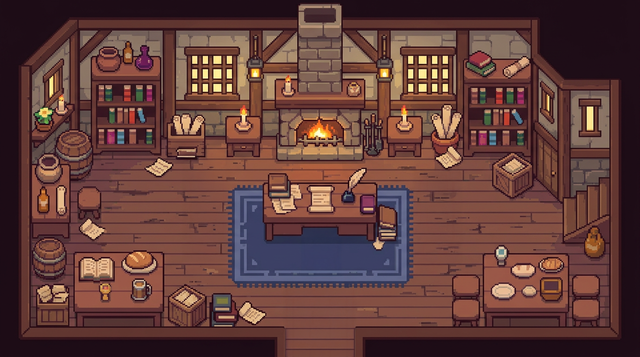
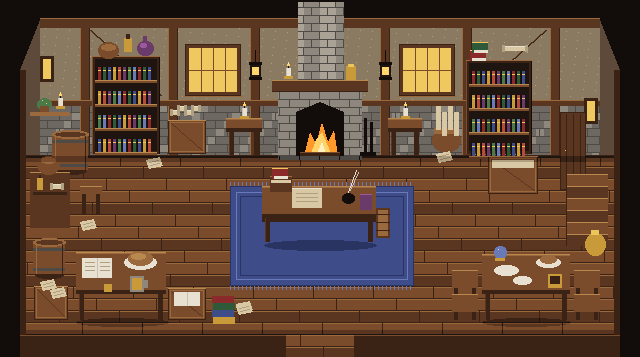
Maison du sage repeinte en pixel art (v8.15.1)
Même disposition que l'ancienne image : la grille de collision, les
lumières et les zones de lecture ne changent pas. Les dessus des deux
tables du bas sont recoupés dans la nouvelle image.

Claude-Session: https://claude.ai/code/session_01KgRZeWCvSQVkTEWoxAiCQs

diff --git a/tools/donjon-peint/sage.px.js b/tools/donjon-peint/sage.px.js
@@ -1,0 +1,128 @@
+// Escape Night 2 — maison du sage (bibliothèque), repeinte en pixel art.
+// Même disposition que l'ancienne image : 640 × 358 (2 px par pixel de jeu), grille de collision `biblio` (maps.js) inchangée.
+pal({
+  k: "#120c0a", K: "#1e1410",
+  B: "#3a2214", b: "#5a3620", n: "#7a4c2c", N: "#9a6a3e", L: "#b8884e",          // bois (sombre → clair)
+  q: "#5e4a3a", Q: "#7e6a54",                                                       // ombre du plancher
+  s: "#4e4a46", S: "#6e6862", t: "#8e877e", T: "#aaa294",                         // pierre
+  p: "#8a7a62", P: "#b0a080", c: "#d8c8a4",                                         // plâtre, parchemin
+  u: "#2a3462", U: "#3e4c8a", v: "#6a7ab8",                                         // tapis bleu
+  r: "#8a2a2a", R: "#b84a3a", g: "#2e5a3a", G: "#4a7a4a", y: "#c89a3a", Y: "#ecc65a", // reliures, or
+  o: "#ff9a2a", O: "#ffd46a", w: "#fff2c0",                                         // feu, lumière
+  m: "#6a3a6a", M: "#9a5a9a", e: "#c8c0b0", E: "#e8e0d0",                           // flacons, porcelaine
+  W: "#f0c860",                                                                     // fenêtres éclairées
+})
+ramps("kKBbnNL", "kqQ", "kstT", "kpPc", "kuUv", "krR", "kgG", "kyY", "koOw", "kmM", "keE")
+const H = (x, y, w, k) => [hline(x, y, w, k)]
+// ---------- pièces ----------
+function plank(c, x0, y0, x1, y1) {                       // plancher : lames horizontales, joints décalés, nœuds
+  for (let y = y0; y < y1; y++) for (let x = x0; x < x1; x++) {
+    const row = Math.floor((y - y0) / 12), off = (row * 37) % 60, seam = (x + off) % 60
+    let k = row % 3 === 0 ? "n" : row % 3 === 1 ? "b" : "n"
+    if ((y - y0) % 12 === 0) k = "N"; if ((y - y0) % 12 === 11 || seam === 0) k = "B"
+    c.px(x, y, k)
+  }
+}
+function shelf(c, x, y, w, h) {                           // bibliothèque pleine de livres
+  c.rect(x, y, w, h, "B"); c.rect(x + 3, y + 3, w - 6, h - 6, "K"); c.vline(x, y, h, "n"); c.vline(x + w - 1, y, h, "k"); c.hline(x, y, w, "N")
+  const cols = "rgUyRmGv"
+  for (let sy = y + 6; sy < y + h - 12; sy += 24) {
+    c.rect(x + 3, sy + 18, w - 6, 3, "n"); c.hline(x + 3, sy + 18, w - 6, "L")
+    let bx = x + 5; let i = (sy + x) % 7
+    while (bx < x + w - 8) { const bw = 4 + (i * 3) % 3, bh = 13 + (i * 5) % 5, k = cols[i % cols.length]; c.rect(bx, sy + 18 - bh, bw, bh, k); c.vline(bx, sy + 18 - bh, bh, "k"); c.hline(bx + 1, sy + 18 - bh + 3, bw - 1, "Y"); bx += bw + 1; i++ }
+  }
+}
+function table(c, x, y, w, h, top = 16) { c.rect(x, y, w, top, "n"); c.hline(x, y, w, "L"); c.hline(x, y + 1, w, "N"); c.rect(x, y + top, w, 4, "B"); c.rect(x + 3, y + top + 4, 5, h - top - 4, "B"); c.rect(x + w - 8, y + top + 4, 5, h - top - 4, "B"); c.vline(x + 3, y + top + 4, h - top - 4, "b") }
+function candle(c, x, y) { c.rect(x - 4, y + 8, 9, 3, "y"); c.rect(x - 2, y, 5, 8, "E"); c.vline(x - 2, y, 8, "e"); c.vline(x, y - 2, 2, "k"); c.px(x, y - 5, "w"); c.rect(x - 1, y - 4, 3, 2, "O"); c.px(x, y - 6, "O") }
+function barrel(c, x, y, w, h) { c.ellipse(x + w / 2, y + h - 3, w / 2 - 2, 3, "B"); c.rect(x, y + 4, w, h - 8, "n"); c.ellipse(x + w / 2, y + 4, w / 2, 4, "N"); c.ellipse(x + w / 2, y + 4, w / 2 - 3, 2, "b"); for (const yy of [y + 10, y + h - 10]) c.rect(x, yy, w, 3, "s"); c.vline(x + 3, y + 6, h - 10, "N"); c.vline(x + w - 3, y + 6, h - 10, "B") }
+function crate(c, x, y, w, h) { c.rect(x, y, w, h, "n"); c.box(x, y, w, h, "B"); c.box(x + 2, y + 2, w - 4, h - 4, "N"); c.line(x + 3, y + 3, x + w - 4, y + h - 4, "b"); c.hline(x, y, w, "L") }
+function scroll(c, x, y, len, dir = 1) { c.rect(x, y, len, 5, "c"); c.hline(x, y, len, "E"); c.rect(x - 2, y - 1, 3, 7, "P"); c.rect(x + len - 1, y - 1, 3, 7, "P") }
+function paper(c, x, y) { c.poly([x, y, x + 14, y - 3, x + 17, y + 6, x + 3, y + 9], "c"); c.line(x + 3, y + 2, x + 12, y, "P"); c.line(x + 4, y + 5, x + 13, y + 3, "P") }
+function book(c, x, y, k) { c.rect(x, y, 16, 11, k); c.hline(x, y, 16, "Y"); c.rect(x + 2, y + 8, 14, 3, "E") }
+function windowW(c, x, y, w, h) { c.rect(x - 4, y - 4, w + 8, h + 8, "b"); c.box(x - 4, y - 4, w + 8, h + 8, "B"); c.rect(x, y, w, h, "W"); for (let i = 1; i < 4; i++) c.vline(x + (w * i / 4 | 0), y, h, "n"); c.hline(x, y + (h / 2 | 0), w, "n"); c.hline(x - 6, y + h + 4, w + 12, "N") }
+function lantern(c, x, y) { c.vline(x, y - 12, 12, "k"); c.rect(x - 6, y, 13, 3, "k"); c.rect(x - 5, y + 3, 11, 12, "K"); c.rect(x - 3, y + 5, 7, 8, "O"); c.px(x, y + 8, "w"); c.rect(x - 6, y + 15, 13, 3, "k") }
+
+scene("biblio", { w: 640, h: 358, bg: "k" },
+  layer("pièce", c => {
+    // mur du fond : soubassement de pierre, plâtre entre les colombages
+    c.rect(40, 20, 560, 135, "p")
+    for (let y = 105; y < 155; y++) for (let x = 40; x < 600; x++) { const row = (y - 105) >> 3, sx = (x + (row % 2) * 12) % 24; c.px(x, y, (y - 105) % 8 === 7 || sx === 23 ? "s" : ((x >> 3) + row) % 5 ? "S" : "t") }
+    for (let y = 26; y < 105; y++) for (let x = 40; x < 600; x++) if (((x * 7 + y * 13) % 97) === 0) c.px(x, y, "P")
+    for (const x of [80, 168, 250, 380, 462, 550]) { c.rect(x, 20, 10, 135, "b"); c.vline(x, 20, 135, "N"); c.vline(x + 9, 20, 135, "B") }   // poteaux
+    c.rect(40, 18, 560, 10, "b"); c.hline(40, 18, 560, "N"); c.rect(40, 100, 560, 6, "b"); c.hline(40, 100, 560, "N")                    // sablières
+    c.line(90, 30, 160, 95, "b"); c.line(91, 30, 161, 95, "B"); c.line(472, 95, 545, 30, "b"); c.line(473, 95, 546, 30, "B")             // écharpes
+    // murs latéraux en biais
+    c.poly([20, 70, 40, 20, 40, 155, 20, 175], "q"); c.poly([600, 20, 620, 70, 620, 175, 600, 155], "q")
+    c.rect(20, 70, 6, 270, "B"); c.rect(614, 70, 6, 270, "B")
+    // plancher
+    plank(c, 26, 155, 614, 335)
+    c.rect(26, 155, 588, 3, "B")
+    // bord avant de la pièce (mur bas), sortie au milieu
+    c.rect(20, 335, 266, 23, "B"); c.hline(20, 335, 266, "n"); c.rect(354, 335, 266, 23, "B"); c.hline(354, 335, 266, "n")
+    plank(c, 286, 335, 354, 358)
+  }),
+  layer("fond", c => {
+    // cheminée de pierre et âtre
+    for (let y = 2; y < 92; y++) for (let x = 298; x < 344; x++) { const row = y >> 3, sx = (x + (row % 2) * 8) % 16; c.px(x, y, y % 8 === 7 || sx === 15 ? "s" : (x >> 4) % 2 ? "t" : "T") }
+    c.rect(272, 80, 96, 12, "b"); c.hline(272, 80, 96, "L"); c.hline(272, 91, 96, "B")
+    for (let y = 92; y < 160; y++) for (let x = 278; x < 362; x++) { const row = (y - 92) >> 3, sx = (x + (row % 2) * 10) % 20; c.px(x, y, (y - 92) % 8 === 7 || sx === 19 ? "s" : "t") }
+    c.rect(296, 112, 48, 44, "k"); c.poly([296, 112, 320, 102, 344, 112], "k")
+    c.poly([304, 156, 310, 132, 316, 144, 322, 122, 328, 142, 334, 130, 338, 156], "o"); c.poly([310, 156, 316, 140, 322, 132, 328, 146, 332, 156], "O"); c.poly([316, 156, 322, 142, 327, 156], "w")
+    c.rect(300, 152, 40, 4, "B"); c.hline(300, 152, 40, "n")
+    candle(c, 288, 68); c.rect(346, 66, 10, 14, "y"); c.rect(348, 64, 6, 3, "Y")                                                          // bougie et pot sur le manteau
+    c.rect(364, 118, 3, 38, "k"); c.rect(370, 122, 3, 34, "k"); c.rect(360, 152, 16, 4, "k")                                               // pique-feu
+    // fenêtres, lanternes
+    windowW(c, 189, 48, 48, 44); windowW(c, 403, 48, 48, 44)
+    lantern(c, 255, 62); lantern(c, 385, 62)
+    // bibliothèques
+    shelf(c, 92, 56, 68, 98); shelf(c, 466, 60, 66, 94)
+    c.ellipse(108, 50, 10, 8, "n"); c.ellipse(108, 47, 7, 3, "N"); c.rect(124, 38, 8, 14, "y"); c.rect(126, 34, 4, 5, "B"); c.ellipse(145, 48, 8, 7, "m"); c.rect(143, 36, 4, 6, "m"); c.ellipse(143, 45, 3, 2, "M")
+    book(c, 470, 50, "r"); book(c, 472, 42, "g"); scroll(c, 504, 46, 22)
+    // guéridons à bougie, boîte à parchemins, pot à rouleaux
+    table(c, 226, 118, 36, 38, 10); candle(c, 244, 108); table(c, 388, 118, 34, 38, 10); candle(c, 405, 108)
+    crate(c, 168, 120, 38, 34); for (let i = 0; i < 4; i++) scroll(c, 172 + i * 7, 110 - (i % 2) * 4, 6)
+    c.ellipse(446, 140, 14, 12, "n"); c.rect(434, 128, 25, 6, "N"); for (let i = 0; i < 4; i++) c.rect(436 + i * 6, 106 + (i % 2) * 6, 5, 24, "c")
+    // étagère murale à gauche : plante et bougie ; petite fenêtre du mur de gauche et du mur de droite
+    c.rect(30, 112, 40, 4, "N"); c.ellipse(44, 104, 7, 6, "G"); c.px(42, 100, "Y"); c.px(46, 103, "Y"); c.rect(40, 106, 9, 6, "n"); candle(c, 60, 98)
+    c.rect(40, 56, 14, 26, "B"); c.rect(43, 59, 8, 20, "W"); c.rect(584, 98, 14, 26, "B"); c.rect(587, 101, 8, 20, "W")
+    // porte du mur de droite
+    c.rect(560, 112, 26, 78, "b"); c.box(560, 112, 26, 78, "B"); for (const x of [566, 573, 580]) c.vline(x, 114, 74, "B"); c.px(565, 150, "Y")
+  }),
+  layer("meubles", c => {
+    barrel(c, 52, 130, 36, 44); barrel(c, 33, 238, 32, 40)
+    c.rect(30, 172, 40, 56, "b"); c.hline(30, 172, 40, "L"); c.rect(33, 192, 34, 3, "B"); c.ellipse(48, 165, 11, 9, "n"); c.ellipse(48, 160, 7, 3, "N"); c.rect(37, 178, 6, 12, "y"); c.rect(39, 175, 2, 3, "B"); scroll(c, 52, 184, 10)
+    c.rect(80, 186, 22, 8, "n"); c.hline(80, 186, 22, "L"); c.rect(82, 194, 4, 20, "B"); c.rect(96, 194, 4, 20, "B")          // tabouret
+    crate(c, 488, 156, 50, 38); c.rect(492, 160, 42, 8, "c")
+    // escalier vers l'étage, jarre
+    for (let i = 0; i < 6; i++) { c.rect(566 + i * 0, 174 + i * 12, 42, 12, i % 2 ? "b" : "n"); c.hline(566, 174 + i * 12, 42, "L") }
+    c.vline(566, 174, 72, "B"); c.ellipse(595, 244, 10, 11, "y"); c.rect(591, 230, 8, 5, "Y")
+    // tapis bleu à frange
+    c.rect(230, 186, 184, 100, "U"); c.box(230, 186, 184, 100, "u"); c.box(236, 192, 172, 88, "v"); c.box(240, 196, 164, 80, "u")
+    for (let x = 230; x < 414; x += 4) { c.vline(x, 182, 4, "v"); c.vline(x, 286, 4, "v") }
+    // bureau du sage
+    c.rect(262, 214, 114, 8, "B"); table(c, 262, 186, 114, 56, 28)
+    c.rect(292, 188, 30, 20, "c"); c.hline(292, 188, 30, "E"); for (const yy of [193, 197, 201]) c.hline(296, yy, 22, "P")
+    c.rect(270, 176, 22, 16, "b"); c.hline(270, 176, 22, "N"); c.rect(271, 180, 20, 3, "c"); book(c, 272, 168, "r")
+    c.ellipse(348, 198, 6, 5, "k"); c.line(348, 192, 356, 170, "E"); c.line(350, 190, 358, 172, "e"); c.rect(360, 194, 12, 16, "m"); c.hline(360, 194, 12, "M")
+    c.rect(376, 208, 14, 30, "b"); c.rect(378, 210, 10, 26, "N"); c.hline(376, 214, 14, "B"); c.hline(376, 222, 14, "B"); c.hline(376, 230, 14, "B")
+    // table basse gauche (livre ouvert, pain, chope) et ses voisins
+    table(c, 76, 252, 90, 68, 38)
+    c.rect(82, 258, 30, 20, "E"); c.vline(97, 258, 20, "e"); for (const yy of [262, 266, 270]) { c.hline(85, yy, 10, "P"); c.hline(100, yy, 10, "P") }
+    c.ellipse(140, 262, 16, 7, "E"); c.ellipse(140, 258, 12, 7, "N"); c.ellipse(138, 256, 7, 3, "L")
+    c.rect(130, 276, 14, 16, "t"); c.rect(132, 278, 10, 12, "y"); c.rect(144, 280, 4, 8, "t"); c.rect(104, 284, 8, 8, "y")
+    crate(c, 34, 286, 34, 34); paper(c, 40, 282); paper(c, 50, 290)
+    crate(c, 168, 288, 38, 32); c.rect(174, 292, 26, 14, "E"); c.vline(187, 292, 14, "e")
+    for (let i = 0; i < 4; i++) c.rect(212 + (i % 2), 296 + i * 7, 22, 7, "rgUy"[i]); paper(c, 236, 304)
+    // table basse droite (assiettes, pain, boule de cristal), tabourets
+    table(c, 482, 254, 88, 66, 36)
+    c.ellipse(506, 270, 12, 5, "E"); c.ellipse(548, 262, 12, 5, "E"); c.ellipse(548, 259, 8, 4, "N"); c.ellipse(522, 280, 9, 4, "E"); c.rect(548, 274, 14, 14, "y"); c.rect(550, 276, 10, 8, "B")
+    c.circ(500, 252, 6, "v"); c.px(498, 249, "E"); c.rect(495, 258, 10, 3, "y")
+    for (const [x, y] of [[452, 270], [452, 294], [574, 270], [574, 294]]) { c.rect(x, y, 26, 18, "n"); c.hline(x, y, 26, "L"); c.rect(x + 2, y + 18, 4, 8, "B"); c.rect(x + 20, y + 18, 4, 8, "B") }
+    // papiers tombés (on lit beaucoup ici)
+    paper(c, 146, 160); paper(c, 80, 222); paper(c, 436, 154); paper(c, 236, 306)
+  }),
+  // ombres portées douces sous les meubles, côté opposé au feu
+  layer("ombres", { shade: true }, c => {
+    c.ellipse(320, 245, 56, 5, "k"); c.ellipse(122, 322, 46, 4, "k"); c.ellipse(526, 322, 44, 4, "k"); c.rect(26, 156, 588, 6, "k"); c.rect(26, 330, 588, 5, "k")
+  }),
+)

diff --git a/index.html b/index.html
@@ -26,39 +26,39 @@
 <body>
 <canvas id="c"></canvas>
 <div id="rotate"><span>⟳</span>Tourne ton téléphone<br>en mode paysage</div>
-<script src="src/core.js?v=8.15.0"></script>
-<script src="src/bus.js?v=8.15.0"></script>
-<script src="src/input.js?v=8.15.0"></script>
-<script src="src/systems/save.js?v=8.15.0"></script>
-<script src="src/systems/heroes.js?v=8.15.0"></script>
-<script src="src/systems/inventory.js?v=8.15.0"></script>
-<script src="src/systems/wallet.js?v=8.15.0"></script>
-<script src="src/systems/shop.js?v=8.15.0"></script>
-<script src="src/systems/story.js?v=8.15.0"></script>
-<script src="src/systems/loot.js?v=8.15.0"></script>
-<script src="src/world.js?v=8.15.0"></script>
-<script src="src/entities.js?v=8.15.0"></script>
-<script src="src/objects.js?v=8.15.0"></script>
-<script src="src/actors.js?v=8.15.0"></script>
-<script src="src/interiors.js?v=8.15.0"></script>
-<script src="src/bois.js?v=8.15.0"></script>
-<script src="src/tools.js?v=8.15.0"></script>
-<script src="src/mines.js?v=8.15.0"></script>
-<script src="src/lac.js?v=8.15.0"></script>
-<script src="src/temple.js?v=8.15.0"></script>
-<script src="src/tower.js?v=8.15.0"></script>
-<script src="src/castle.js?v=8.15.0"></script>
-<script src="src/quests.js?v=8.15.0"></script>
-<script src="src/rpg.js?v=8.15.0"></script>
-<script src="src/dungeon.js?v=8.15.0"></script>
-<script src="src/cave.js?v=8.15.0"></script>
-<script src="src/maps.js?v=8.15.0"></script>
-<script src="src/overworld.js?v=8.15.0"></script>
-<script src="src/houses.js?v=8.15.0"></script>
-<script src="src/areas.js?v=8.15.0"></script>
-<script src="src/monde.js?v=8.15.0"></script>
-<script src="src/quetes.js?v=8.15.0"></script>
-<script src="src/ui.js?v=8.15.0"></script>
-<script src="src/game.js?v=8.15.0"></script>
+<script src="src/core.js?v=8.15.1"></script>
+<script src="src/bus.js?v=8.15.1"></script>
+<script src="src/input.js?v=8.15.1"></script>
+<script src="src/systems/save.js?v=8.15.1"></script>
+<script src="src/systems/heroes.js?v=8.15.1"></script>
+<script src="src/systems/inventory.js?v=8.15.1"></script>
+<script src="src/systems/wallet.js?v=8.15.1"></script>
+<script src="src/systems/shop.js?v=8.15.1"></script>
+<script src="src/systems/story.js?v=8.15.1"></script>
+<script src="src/systems/loot.js?v=8.15.1"></script>
+<script src="src/world.js?v=8.15.1"></script>
+<script src="src/entities.js?v=8.15.1"></script>
+<script src="src/objects.js?v=8.15.1"></script>
+<script src="src/actors.js?v=8.15.1"></script>
+<script src="src/interiors.js?v=8.15.1"></script>
+<script src="src/bois.js?v=8.15.1"></script>
+<script src="src/tools.js?v=8.15.1"></script>
+<script src="src/mines.js?v=8.15.1"></script>
+<script src="src/lac.js?v=8.15.1"></script>
+<script src="src/temple.js?v=8.15.1"></script>
+<script src="src/tower.js?v=8.15.1"></script>
+<script src="src/castle.js?v=8.15.1"></script>
+<script src="src/quests.js?v=8.15.1"></script>
+<script src="src/rpg.js?v=8.15.1"></script>
+<script src="src/dungeon.js?v=8.15.1"></script>
+<script src="src/cave.js?v=8.15.1"></script>
+<script src="src/maps.js?v=8.15.1"></script>
+<script src="src/overworld.js?v=8.15.1"></script>
+<script src="src/houses.js?v=8.15.1"></script>
+<script src="src/areas.js?v=8.15.1"></script>
+<script src="src/monde.js?v=8.15.1"></script>
+<script src="src/quetes.js?v=8.15.1"></script>
+<script src="src/ui.js?v=8.15.1"></script>
+<script src="src/game.js?v=8.15.1"></script>
 </body>
 </html>

diff --git a/sw.js b/sw.js
@@ -1,5 +1,5 @@
 // À chaque déploiement : changer VERSION ici, VERSION dans src/core.js et les ?v= dans index.html.
-const VERSION = 'v8.15.0';
+const VERSION = 'v8.15.1';
 const CACHE = 'escape-night2-' + VERSION;
 const PROPS = ['pine1', 'pine2', 'oak1', 'oak2', 'tent_r', 'tent_b', 'tent_y', 'campfire', 'campfire2', 'bush', 'log', 'rock', 'lamp', 'sign', 'fence', 'flowers', 'table'];
 const SCRIPTS = ['src/core.js', 'src/bus.js', 'src/input.js', 'src/systems/save.js', 'src/systems/heroes.js', 'src/systems/inventory.js', 'src/systems/wallet.js', 'src/systems/shop.js', 'src/systems/story.js', 'src/systems/loot.js', 'src/world.js', 'src/entities.js', 'src/objects.js', 'src/actors.js', 'src/interiors.js', 'src/bois.js', 'src/tools.js', 'src/mines.js', 'src/lac.js', 'src/temple.js', 'src/tower.js', 'src/castle.js', 'src/quests.js', 'src/rpg.js', 'src/dungeon.js', 'src/cave.js', 'src/maps.js', 'src/overworld.js', 'src/houses.js', 'src/areas.js', 'src/monde.js', 'src/quetes.js', 'src/ui.js', 'src/game.js'];

diff --git a/src/core.js b/src/core.js
@@ -1,6 +1,6 @@
 'use strict';
 // ---------- constantes ----------
-const VERSION = 'v8.15.0';
+const VERSION = 'v8.15.1';
 const W = 480, H = 270, SC = 2, TS = 16;
 const CHAR_SC = 0.75; // personnages (héros, PNJ, monstres) : 1 pixel d'image = 1,5 pixel d'écran (150 %)
 const cv = document.getElementById('c');

diff --git a/README.md b/README.md
@@ -27,6 +27,7 @@ PWA jouable en paysage sur mobile, ordinateur et manette.
 - **Donjon 6, le Château de Minuit** (défilé au sud-ouest du lac, éboulement à faire sauter) : 4 × 3 salles, horloges qui figent la salle, une aile par outil pour les cinq sceaux, le Chevalier Minuit (Papa ensorcelé), le Roi Minuit en 3 phases, le lever du soleil, le retour au camping et le générique.
 
 ## Version 8 : la grande mise à jour
+- **8.15.1** : la maison du sage (bibliothèque) est repeinte en pixel art avec la même disposition (grille `biblio`, lumières et zones de lecture inchangées) : colombages et soubassement de pierre, cheminée et feu, fenêtres éclairées, lanternes, bibliothèques pleines, bureau du sage sur son tapis bleu, tables, tonneaux, caisses, escalier ; les dessus des deux tables du bas (`biblio_dessus.png`) sont recoupés dans la nouvelle image. Source : `tools/donjon-peint/sage.px.js`.
 - **8.15.0** : le Château de Minuit (donjon 6) devient un château gothique peint, lisières droites (option `clean`) : grandes dalles de marbre veiné à bordure de marbre sombre et liseré d'or, tapis cramoisis à bordure dorée entre les portes (une seule forme en croix quand ils se croisent, bordure continue), grand mur nord tendu de damas au-dessus d'un lambris, fenêtres gothiques à vitraux, portraits au cadre doré aux yeux qui luisent, enluminures, tout par paires symétriques ; arcs brisés aux passages avec une petite horloge à la clé, colonnes de marbre à chapiteau doré portant des chandelles, pétales de roses fanées ; horloge du trône arrêtée sur minuit au-dessus du dossier ; anges voilés sur socle de marbre dans la salle du frisbee ; galerie couverte de tableaux, armurerie aux épées croisées sur écus, bassin de nuit, gouffres au rebord de marbre brisé et pont doré (variante selon `SAVE.castleBridge`) ; pas de motifs au sol ni d'effets de lumière en points ; l'extracteur de grilles respecte `prison: false`.
 - **8.14.9** : la Tour des artificiers (donjon 5) devient une tour en fête peinte, lisières droites (option `clean`) : briques violet nuit, carrelage en losanges de terre cuite, guirlandes de fanions et lanternes de papier par paires sur le grand mur nord (avec la suie au-dessus), arches rouge et or à étoile aux passages, colonnes rayées coiffées d'étincelles, brûlures en étoile de fusées éclatées entourées de confettis, douilles de pétards ; chaque salle a son détail (étoile d'or à l'entrée, cible de tir dans l'arène, pochoirs de danger à la réserve de pétards, rose des vents au carrefour, mèches brûlées qui convergent dans la salle des torches, rayures des boulets, épées croisées du Chevalier de fer, gamelle et os de Goyave) ; pas de fausses fissures dans le décor, pour ne pas les confondre avec les murs cassables du jeu ; Goyave est tenue par une chaîne entre deux poteaux (option `bind: 'chains'`).
 - **8.14.8** : le Temple englouti (donjon 4) devient un temple aquatique peint, lisières droites (option `clean`) : grès bleu-vert, grand mur nord à frise de vagues sculptée, ligne de crue et algues au pied, reliefs de poissons par paires, dallage détrempé, colonnes cannelées couvertes d'anatifes, passages sculptés (colonnes et linteau à coquille), coulures d'humidité avec une flaque légère au pied ; chaque salle à bassin a deux décors qui suivent le niveau de l'eau (`paintRooms` avec `SAVE.waterLow`) : bassin plein, ou vidé avec son rebord, ses marches et de petites flaques irrégulières au fond ; cascade qui tombe du mur dans le chenal profond, médaillons de mosaïque, coquillages ; le captif est lié par des algues à deux stèles moussues (option `bind: 'kelp'`).
